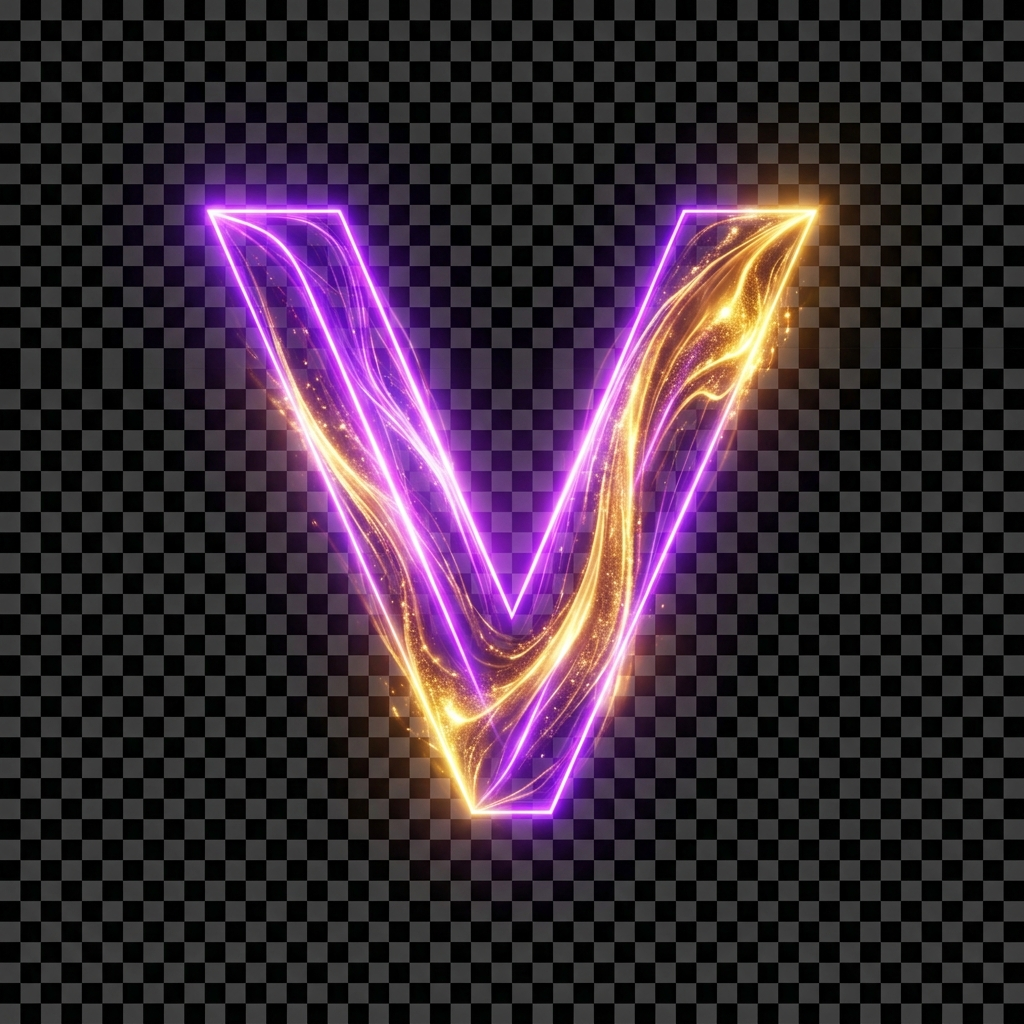
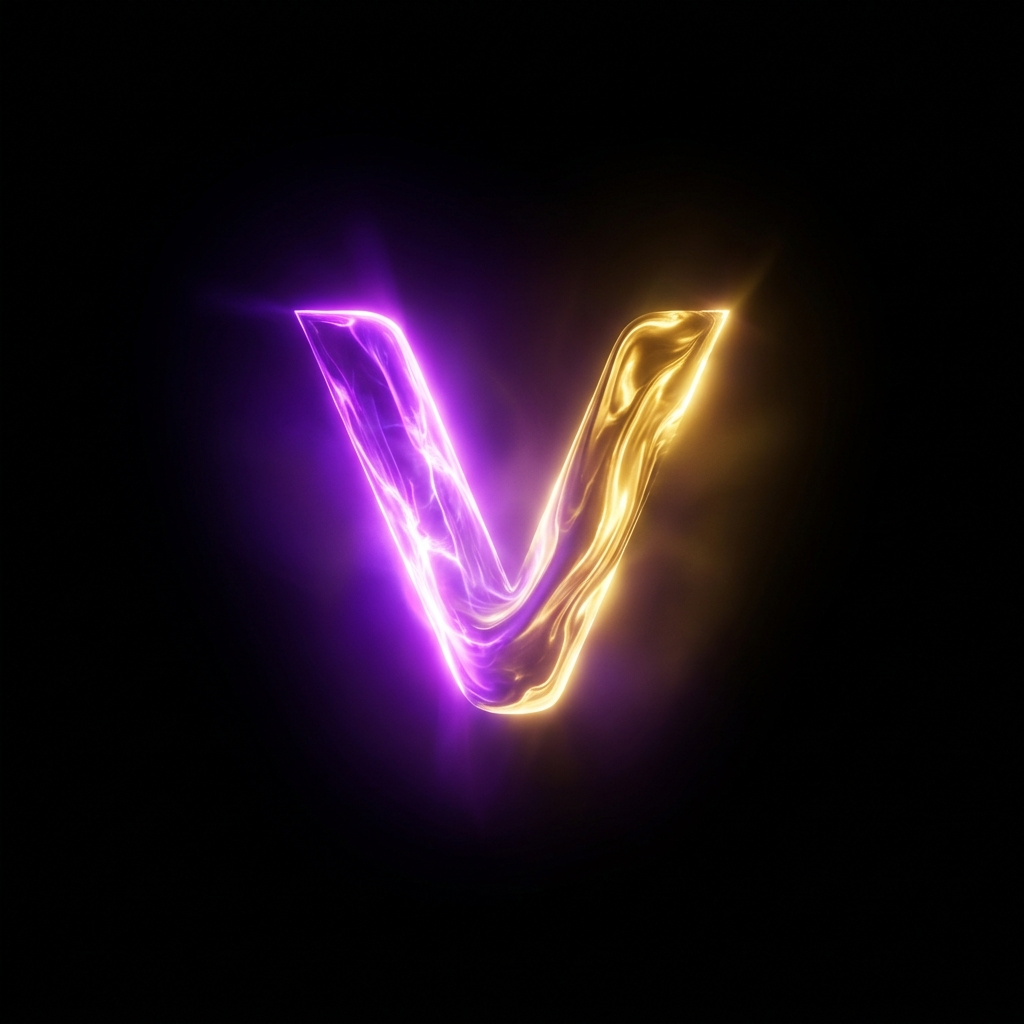
fix

diff --git a/src/components/Navbar/Navbar.module.css b/src/components/Navbar/Navbar.module.css
@@ -41,13 +41,17 @@
 .logoIcon {
   width: 34px;
   height: 34px;
-  background: linear-gradient(135deg, var(--accent-primary), var(--accent-pink));
+  background: transparent; /* Changed from gradient to transparent */
   border-radius: 10px;
   display: flex;
   align-items: center;
   justify-content: center;
   color: #fff;
   flex-shrink: 0;
+}
+
+.logoIcon img {
+  mix-blend-mode: screen; /* Makes black background of new logo invisible */
 }
 
 .logoText {

diff --git a/src/components/Preloader/Preloader.module.css b/src/components/Preloader/Preloader.module.css
@@ -134,6 +134,7 @@
 .mainImg {
   filter: drop-shadow(0 0 20px rgba(168, 85, 247, 0.5));
   z-index: 2;
+  mix-blend-mode: screen; /* Makes black background transparent */
 }
 
 .progressBar {
